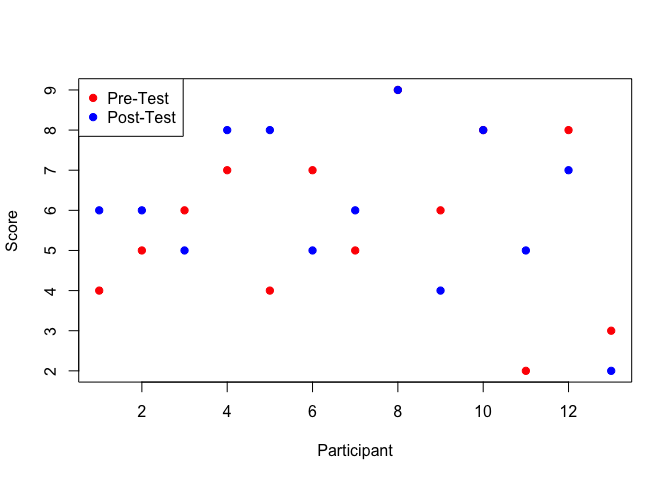
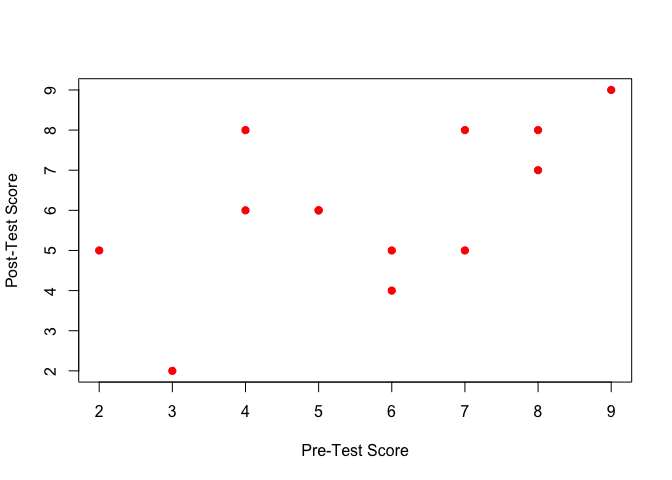
update .md file and images

diff --git a/Assignment_1.md b/Assignment_1.md
@@ -92,7 +92,7 @@ sample = sample(1:100, 10, replace=TRUE)
 sample
 ```
 
-    ##  [1] 81 85 29 98 26 37 78 59 41 85
+    ##  [1]  70  47  35  80  67  62  21   9  43 100
 
 ## a. What is the median? What is the mean? Is there a difference between the two? Why?
 
@@ -102,7 +102,7 @@ mean = mean(sample)
 sprintf("The mean in this sample is: %s", mean)
 ```
 
-    ## [1] "The mean in this sample is: 61.9"
+    ## [1] "The mean in this sample is: 53.4"
 
 ``` r
 # Find the median of the sample
@@ -110,14 +110,14 @@ median = median(sample)
 sprintf("The median in this sample is: %s", median)
 ```
 
-    ## [1] "The median in this sample is: 68.5"
+    ## [1] "The median in this sample is: 54.5"
 
 Yes, there is a minor difference between the mean and median. This is
 most likely the case because the sample of 10 values, while randomly
 samples, is skewed slightly towards the left – or the sample contains
-more values closer to 60. This happens because the mean outlines the
-center of gravity of data set whereas median highlights the middle-most
-value of the data set.
+more values closer to the left end of the sample. This happens because
+the mean outlines the center of gravity of data set whereas median
+highlights the middle-most value of the data set.
 
 ## b. Compute the standard deviation
 
@@ -127,7 +127,7 @@ sd = sd(sample)
 sprintf("The standard deviation of this sample is: %s", sd)
 ```
 
-    ## [1] "The standard deviation of this sample is: 26.7309641510448"
+    ## [1] "The standard deviation of this sample is: 27.7336538443018"
 
 ## c. Create a plot to visualize these data
 
@@ -147,10 +147,12 @@ sample = sample(1:100, 100, replace=TRUE)
 sample
 ```
 
-    ##   [1] 68 41 13 94 21  1 92 38 65 16 22 71 76 66  7 33 68 50 34 51 39 24 66 55 73
-    ##  [26]  7 97 20 26 20 38 91 66 88 45 14 55 56 81 75 95 44 34 52 12 21 61 98 26 38
-    ##  [51] 46 86  2 23 27 59 12 10 16 14 54 31 29 72 75 98 31 86 63 58 86 30 50 87 62
-    ##  [76] 31 28  4  2 67 73 21 17 11 65 48 58 61 81 28 16 73 19 84 80  7 33 46 16 79
+    ##   [1]  54  97  71  25   9  22   7  43  19  58  48   3   2  40  64  30  66  93
+    ##  [19]  27  42  30  28   9  22  43  90  16  22  48  63  51  76  91  22  48  38
+    ##  [37]   7  27  73  40  19  57  33  33  95  21  40  37  63  19  94  87  89  26
+    ##  [55]   4  99  63  44  50  20  63  38  54   8  27   6  73 100   3  79  46  10
+    ##  [73]  83  12  85  93  17  69  99   9   8  53  70  67  74  38  63   5   5  20
+    ##  [91]  65  33  47   3  58  14  39  13   5  97
 
 ## a. What is the median, mean, and standard deviation of this sample?
 
@@ -160,7 +162,7 @@ mean = mean(sample)
 sprintf("The mean in this sample is: %s", mean)
 ```
 
-    ## [1] "The mean in this sample is: 46.99"
+    ## [1] "The mean in this sample is: 44.08"
 
 ``` r
 # Find the median of the sample
@@ -168,7 +170,7 @@ median = median(sample)
 sprintf("The median in this sample is: %s", median)
 ```
 
-    ## [1] "The median in this sample is: 46"
+    ## [1] "The median in this sample is: 40"
 
 ``` r
 # Compute the standard deviation of the sample
@@ -176,7 +178,7 @@ sd = sd(sample)
 sprintf("The standard deviation of this sample is: %s", sd)
 ```
 
-    ## [1] "The standard deviation of this sample is: 27.8021491066697"
+    ## [1] "The standard deviation of this sample is: 29.2808345633671"
 
 ## b. Create a plot to visualize these data
 
@@ -193,16 +195,9 @@ I expected both the sample of 100 values and 10 values to have no
 distinct correlation since they are both random samples. Observing both
 of the plots, the plot with 100 values is more clearly random, but the
 plot with 10 values also shows a non-correlational relationship between
-the points. Furthermore, the high standard deviation for the sample with
-100 values tells us that the data is greatly dispersed in relation to
-the mean, which deters a correlation between the values.
-
-What was different was that the sample of 100 values has a greater
-difference between the mean and median, which tells us that it is even
-more skewed towards the left compared to the sample of 10 values. This
-is most likely due to the fact that in a sample with more data values,
-the mean underestimates the most common values in a negatively skewed
-distribution. Also, the higher
+the points. Furthermore, the high standard deviation for both samples
+tell us that the data is greatly dispersed in relation to the mean,
+which deters a correlation between the values.
 
 # Question 3
 
@@ -405,10 +400,7 @@ scores
 
 ``` r
 # Plot Pre-Test & Post-Test 
-plot(scores$Participant, scores$Pre_Test, pch=19, col="red", xlab = "Participant", ylab = "Score")
-points(scores$Participant, scores$Post_Test, pch=19, col = "blue")
-legend("topleft", legend = c("Pre-Test", "Post-Test"),
-       pch = 19, col = c("red", "blue"))
+plot(scores$Pre_Test, scores$Post_Test, pch=19, col="red", xlab = "Pre-Test Score", ylab = "Post-Test Score")
 ```
 
 ![](Assignment_1_files/figure-gfm/unnamed-chunk-17-1.png)<!-- -->
